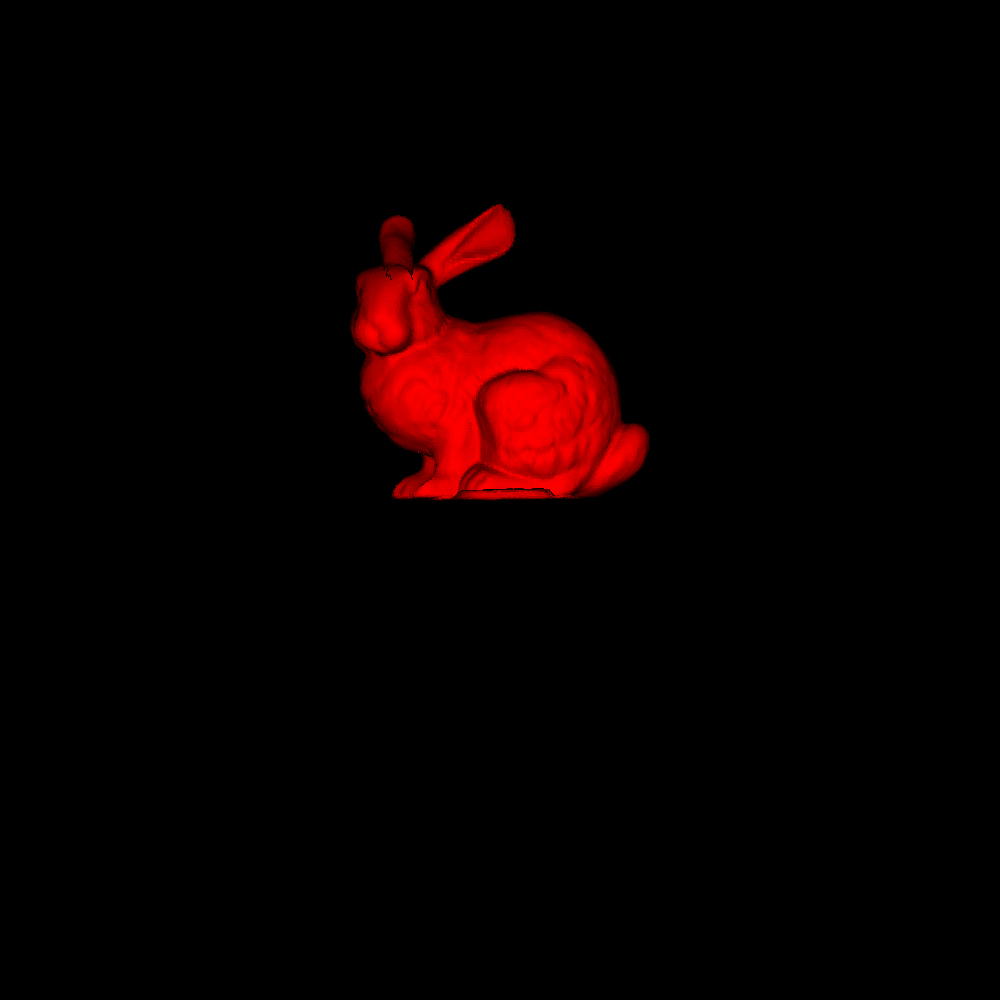
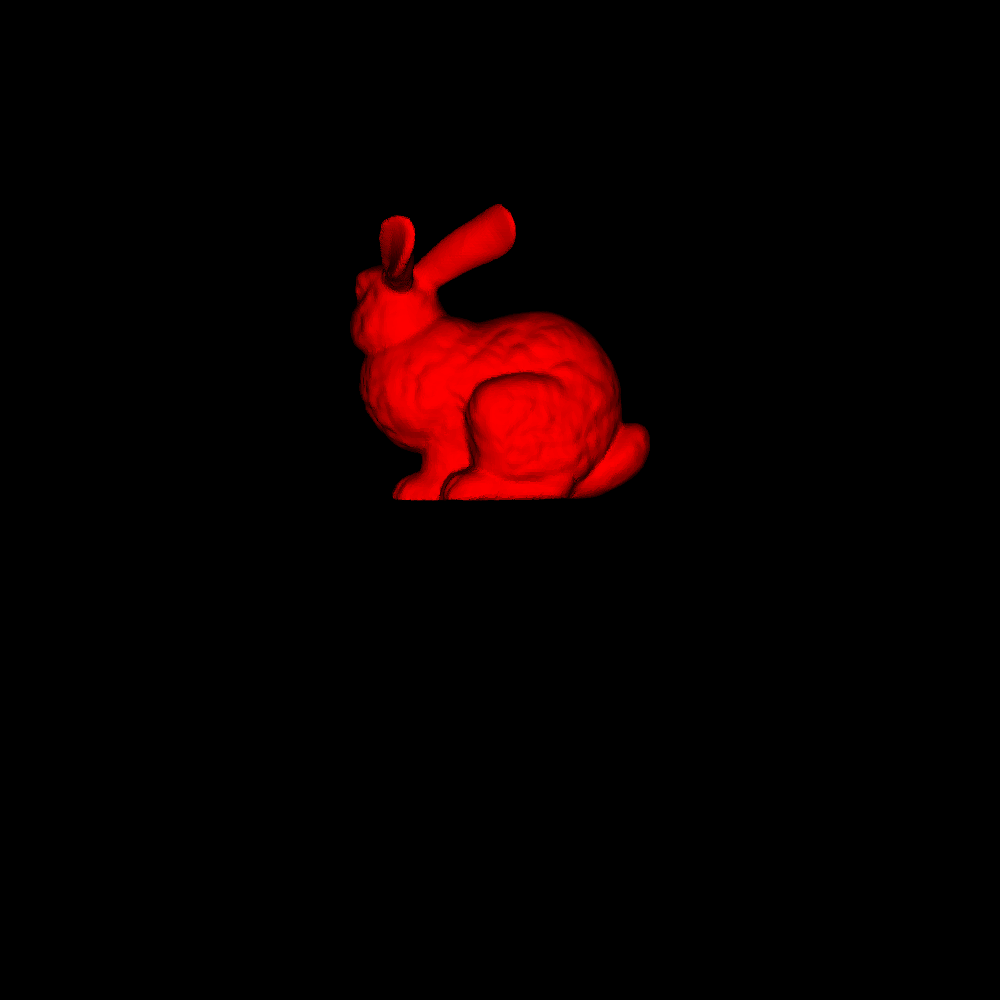
Lab 2 task 15

Changed region(s): [[0.341, 0.186, 0.651, 0.527]]

diff --git a/LabModel.py b/LabModel.py
@@ -71,7 +71,7 @@ class LabModel:
             face = faces[i]
             normal = normals[i]
             cos = toolkit.find_cos(normal)
-            if cos <= 0:
+            if cos >= 0:
                 dot_1_index = face[0]
                 dot_2_index = face[1]
                 dot_3_index = face[2]
@@ -85,5 +85,5 @@ class LabModel:
                                     z1=vertices[dot_2_index][2],
                                     z2=vertices[dot_3_index][2],
                                     step=step,
-                                    color=Color(255 * -cos, 0, 0) if color is None else color,
+                                    color=Color(255 * cos, 0, 0) if color is None else color,
                                     magnification=magnification)
